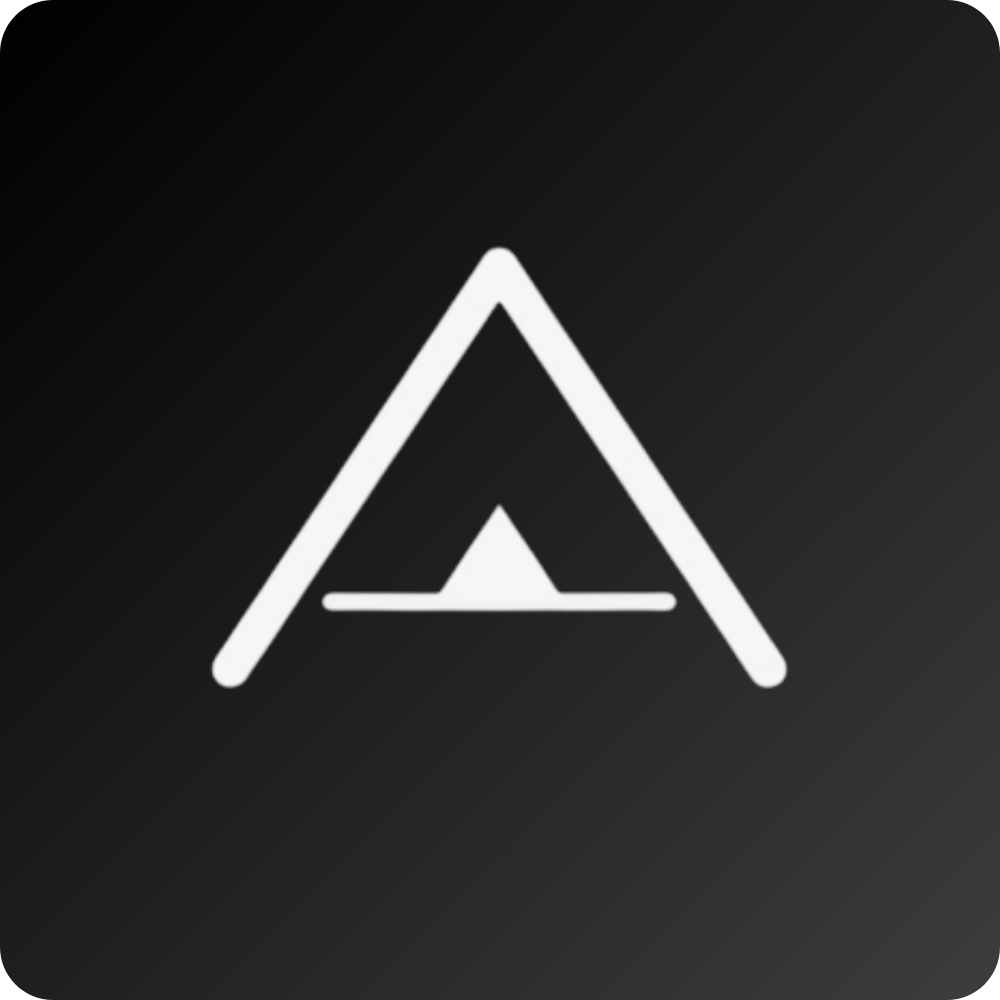
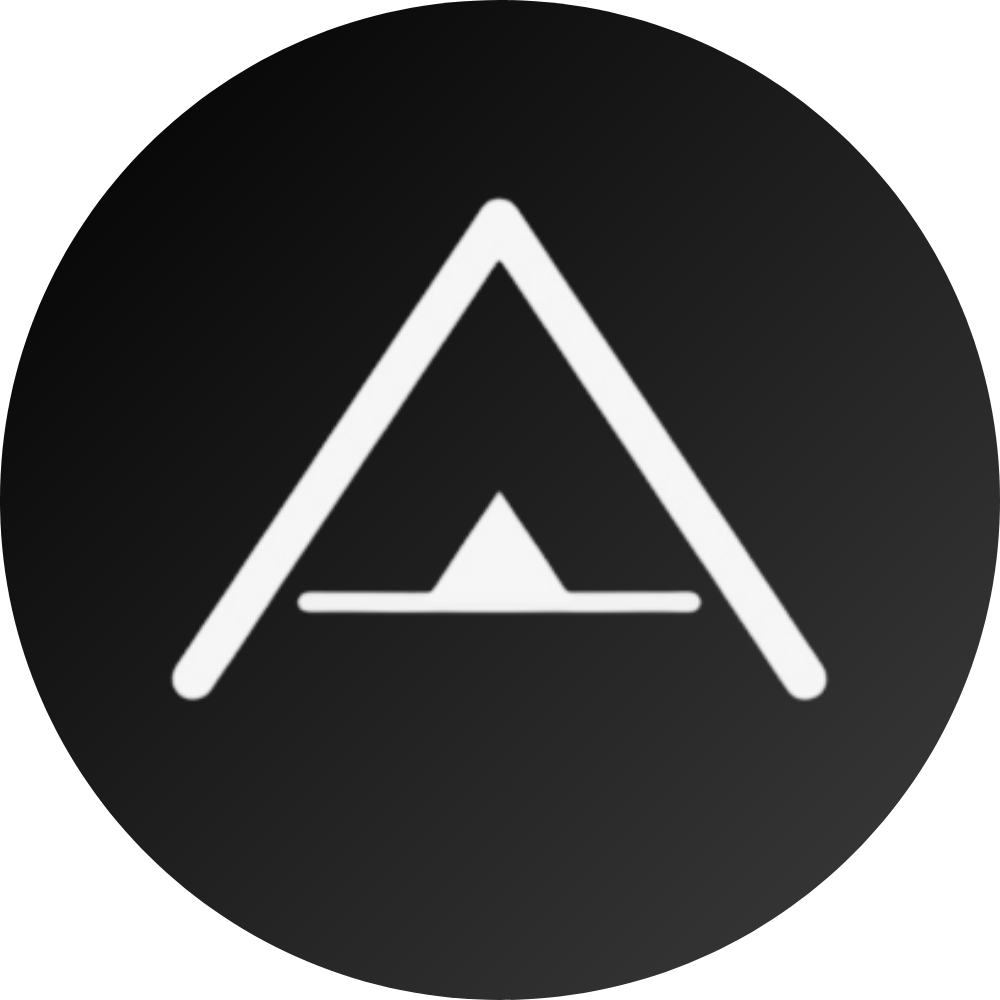
Rollback hct_api e atualização do icone

diff --git a/homecore-tools/rootfs/usr/bin/hct_api.py b/homecore-tools/rootfs/usr/bin/hct_api.py
@@ -31,117 +31,6 @@ state = {
 }
 
 
-# HTML das Ferramentas IR
-SENDHEX_HTML = """<!DOCTYPE html>
-<html lang="pt-BR">
-<head>
-  <meta charset="UTF-8" />
-  <title>GW3 • Envio IR (Pronto HEX)</title>
-  <meta name="viewport" content="width=device-width, initial-scale=1.0" />
-  <style>
-    body { font-family: system-ui, -apple-system, Segoe UI, Roboto, Arial, sans-serif; background:#f6f7fb; margin:0; padding:24px; }
-    .wrap { max-width: 960px; margin: 0 auto; background:#fff; border-radius:12px; padding:24px; box-shadow: 0 8px 20px rgba(0,0,0,.06); }
-    .back-link { display: inline-block; margin-bottom: 20px; color: #667eea; text-decoration: none; font-weight: 600; }
-    .back-link:hover { text-decoration: underline; }
-    h1 { font-size: 22px; margin: 0 0 18px; color:#0f172a; }
-    .grid { display:grid; grid-template-columns: repeat(3, 1fr); gap:14px; }
-    .full { grid-column: 1 / -1; }
-    label { font-size: 13px; color:#334155; margin-bottom:6px; display:block; }
-    input[type="text"], textarea { width:100%; box-sizing:border-box; border:1px solid #cbd5e1; border-radius:8px; padding:10px 12px; font-size:14px; outline:none; transition: box-shadow .2s, border-color .2s; }
-    input:focus, textarea:focus { border-color:#667eea; box-shadow: 0 0 0 3px rgba(102,126,234,.15); }
-    textarea { min-height: 160px; resize: vertical; font-family: ui-monospace, SFMono-Regular, Menlo, Consolas, monospace; }
-    .row { display:flex; gap:10px; align-items:center; }
-    .btn { background:#667eea; color:#fff; border:0; border-radius:10px; padding:12px 18px; font-weight:600; cursor:pointer; font-size:14px; }
-    .btn.secondary { background:#475569; }
-    .btn.warn { background:#dc2626; }
-    .btn:disabled { opacity:.6; cursor:not-allowed; }
-    .status { margin-top:14px; padding:12px; border-radius:8px; display:none; white-space:pre-wrap; }
-    .ok { background:#dcfce7; color:#166534; display:block; }
-    .err { background:#fee2e2; color:#991b1b; display:block; }
-    .hint { color:#475569; font-size:12px; margin-top:6px; }
-    .checkbox { display:flex; align-items:center; gap:8px; }
-  </style>
-</head>
-<body>
-  <div class="wrap">
-    <a href="/" class="back-link">← Voltar ao Dashboard</a>
-    <h1>GW3 • Envio de Códigos IR (POST • x-www-form-urlencoded)</h1>
-    <div class="grid">
-      <div><label for="ip">IP do GW3</label><input id="ip" type="text" placeholder="192.168.1.112" autocomplete="off"></div>
-      <div><label for="serial">Serial (serialNum)</label><input id="serial" type="text" placeholder="P130-C101-A0794" autocomplete="off"></div>
-      <div><label for="pwd">Senha (verifyCode)</label><input id="pwd" type="text" placeholder="72856898" autocomplete="off"></div>
-      <div><label for="c">Parâmetro c</label><input id="c" type="text" placeholder="1" autocomplete="off"></div>
-      <div><label for="r">Parâmetro r</label><input id="r" type="text" placeholder="2" autocomplete="off"></div>
-      <div class="checkbox"><input id="upper" type="checkbox"><label for="upper">HEX em maiúsculas</label></div>
-      <div class="full"><label for="pronto">Código Pronto HEX (com espaços)</label><textarea id="pronto" placeholder="Ex.: 0000 006D 0022 0002 0157 00AC 0015 0016 0015 0041 ..."></textarea><div class="hint">Cole exatamente com espaços; o formulário codifica automaticamente. Todos os campos são salvos no seu navegador (localStorage).</div></div>
-      <div class="full row"><button class="btn" id="send">📡 Enviar (POST)</button><button class="btn secondary" id="preview">🧪 Pré-visualizar corpo</button><button class="btn warn" id="clear">🧹 Limpar dados salvos</button></div>
-    </div>
-    <div id="status" class="status"></div>
-  </div>
-  <script>
-    const F={ip:document.getElementById('ip'),serial:document.getElementById('serial'),pwd:document.getElementById('pwd'),c:document.getElementById('c'),r:document.getElementById('r'),upper:document.getElementById('upper'),pronto:document.getElementById('pronto'),status:document.getElementById('status'),send:document.getElementById('send'),preview:document.getElementById('preview'),clear:document.getElementById('clear')};
-    const KEYS={ip:'gw3_ip',serial:'gw3_serial',pwd:'gw3_pwd',c:'gw3_c',r:'gw3_r',pronto:'gw3_pronto',upper:'gw3_upper'};
-    function load(){F.ip.value=localStorage.getItem(KEYS.ip)||'192.168.1.112';F.serial.value=localStorage.getItem(KEYS.serial)||'P130-C101-A0794';F.pwd.value=localStorage.getItem(KEYS.pwd)||'72856898';F.c.value=localStorage.getItem(KEYS.c)||'1';F.r.value=localStorage.getItem(KEYS.r)||'2';F.pronto.value=localStorage.getItem(KEYS.pronto)||'';F.upper.checked=(localStorage.getItem(KEYS.upper)||'0')==='1';}
-    function bindAutosave(){const saveText=(el,key)=>el.addEventListener('input',()=>localStorage.setItem(key,el.value));const saveCheck=(el,key)=>el.addEventListener('change',()=>localStorage.setItem(key,el.checked?'1':'0'));saveText(F.ip,KEYS.ip);saveText(F.serial,KEYS.serial);saveText(F.pwd,KEYS.pwd);saveText(F.c,KEYS.c);saveText(F.r,KEYS.r);saveText(F.pronto,KEYS.pronto);saveCheck(F.upper,KEYS.upper);}
-    function normalizeHex(s){let v=s.replace(/\\s+/g,' ').trim();if(F.upper.checked)v=v.toUpperCase();return v;}
-    function build(){const ip=F.ip.value.trim();const serial=F.serial.value.trim();const pwd=F.pwd.value.trim();const c=F.c.value.trim();const r=F.r.value.trim();let pronto=normalizeHex(F.pronto.value);if(!ip||!serial||!pwd||!c||!r||!pronto){throw new Error('Preencha IP, serial, senha, c, r e o código Pronto HEX.');}const url=`http://${ip}/api/device/deviceDetails/smartHomeAutoHttpControl`;const body=new URLSearchParams();body.append('serialNum',serial);body.append('verifyCode',pwd);body.append('pronto',pronto);body.append('c',c);body.append('r',r);return{url,body};}
-    function showOK(msg){F.status.className='status ok';F.status.textContent=msg;}function showERR(msg){F.status.className='status err';F.status.textContent=msg;}
-    async function send(){try{const{url,body}=build();await fetch(url,{method:'POST',headers:{'Content-Type':'application/x-www-form-urlencoded'},body,mode:'no-cors'});showOK('✅ Enviado! (POST x-www-form-urlencoded com pronto=...)');}catch(e){showERR('❌ '+e.message);}}
-    function preview(){try{const{url,body}=build();showOK(`URL:\\n${url}\\n\\nBody:\\n${body.toString()}`);}catch(e){showERR('❌ '+e.message);}}
-    function clearAll(){Object.values(KEYS).forEach(k=>localStorage.removeItem(k));load();showOK('🧹 Dados salvos apagados.');}
-    document.addEventListener('DOMContentLoaded',()=>{load();bindAutosave();F.send.addEventListener('click',send);F.preview.addEventListener('click',preview);F.clear.addEventListener('click',clearAll);});
-  </script>
-</body>
-</html>
-"""
-
-SENDIR_HTML = """<!DOCTYPE html>
-<html lang="pt-BR">
-<head>
-    <meta charset="UTF-8"><title>Ferramenta de Envio de Comandos IR - SendIR / GC</title>
-    <meta name="viewport" content="width=device-width, initial-scale=1.0">
-    <style>
-        body{font-family:'Roboto',sans-serif;background-color:#f6f7fb;color:#333;margin:0;padding:24px;display:flex;justify-content:center;align-items:center;min-height:100vh;}
-        .container{width:100%;max-width:900px;background:#fff;padding:2em;border-radius:12px;box-shadow:0 8px 20px rgba(0,0,0,.06);}
-        .back-link{display:inline-block;margin-bottom:20px;color:#667eea;text-decoration:none;font-weight:600;}.back-link:hover{text-decoration:underline;}
-        h1{font-size:1.8em;color:#1e3a8a;margin-top:0;margin-bottom:1em;text-align:center;}
-        .form-grid{display:grid;grid-template-columns:1fr 1fr 1fr;gap:1.5em;}
-        .form-group{display:flex;flex-direction:column;}.full-width{grid-column:1/-1;}
-        label{font-weight:500;margin-bottom:0.5em;color:#374151;}
-        input,textarea{padding:10px;border:1px solid #cbd5e1;border-radius:8px;font-family:'Roboto',sans-serif;font-size:1em;transition:border-color 0.3s,box-shadow 0.3s;}
-        input:focus,textarea:focus{border-color:#667eea;box-shadow:0 0 0 3px rgba(102,126,234,0.2);outline:none;}
-        textarea{height:120px;resize:vertical;font-family:'Courier New',Courier,monospace;}
-        .button-container{grid-column:1/-1;display:flex;justify-content:center;margin-top:1em;}
-        button{background-color:#667eea;color:white;padding:12px 25px;border:none;border-radius:10px;cursor:pointer;font-size:1.1em;font-weight:600;transition:background-color 0.3s;}button:hover{background-color:#5568d3;}
-        #status-message{margin-top:1.5em;padding:1em;border-radius:8px;text-align:center;font-weight:500;display:none;}
-        .status-success{background-color:#dcfce7;color:#166534;display:block;}.status-error{background-color:#fee2e2;color:#991b1b;display:block;}
-    </style>
-</head>
-<body>
-    <div class="container">
-        <a href="/" class="back-link">← Voltar ao Dashboard</a>
-        <h1>Ferramenta de Envio de Comandos IR (SendIR / GC)</h1>
-        <div class="form-grid">
-            <div class="form-group"><label for="ip">IP do Dispositivo:</label><input type="text" id="ip"></div>
-            <div class="form-group"><label for="serial">Serial Number:</label><input type="text" id="serial"></div>
-            <div class="form-group"><label for="pwd">Password (verifyCode):</label><input type="text" id="pwd"></div>
-            <div class="form-group full-width"><label for="c-value">Parâmetro 'c':</label><input type="text" id="c-value"></div>
-            <div class="form-group full-width"><label for="gc-code">Código SendIR / GC:</label><textarea id="gc-code" placeholder="Cole o código SendIR aqui (ex: 38000,1,1,...)"></textarea></div>
-            <div class="button-container"><button id="send-button">📡 Enviar Comando</button></div>
-        </div>
-        <div id="status-message"></div>
-    </div>
-    <script>
-        const ipEl=document.getElementById('ip');const serialEl=document.getElementById('serial');const pwdEl=document.getElementById('pwd');const cEl=document.getElementById('c-value');const gcCodeEl=document.getElementById('gc-code');const sendButton=document.getElementById('send-button');const statusMessageEl=document.getElementById('status-message');
-        function loadData(){ipEl.value=localStorage.getItem('sendir_ip')||'192.168.1.112';serialEl.value=localStorage.getItem('sendir_serial')||'P130-C101-A0794';pwdEl.value=localStorage.getItem('sendir_pwd')||'72856898';cEl.value=localStorage.getItem('sendir_c')||'1';gcCodeEl.value=localStorage.getItem('sendir_gc_code')||'';}
-        function saveData(){localStorage.setItem('sendir_ip',ipEl.value);localStorage.setItem('sendir_serial',serialEl.value);localStorage.setItem('sendir_pwd',pwdEl.value);localStorage.setItem('sendir_c',cEl.value);localStorage.setItem('sendir_gc_code',gcCodeEl.value);}
-        async function sendRequest(){saveData();const ip=ipEl.value.trim();const serial=serialEl.value.trim();const pwd=pwdEl.value.trim();const c=cEl.value.trim();const gcCode=gcCodeEl.value.trim().replace(/\\s/g,'');if(!ip||!serial||!pwd||!c||!gcCode){statusMessageEl.textContent='❌ Erro: Todos os campos devem ser preenchidos.';statusMessageEl.className='status-error';return;}const url=`http://${ip}/api/device/deviceDetails/smartHomeAutoHttpControl`;const body=new URLSearchParams();body.append('serialNum',serial);body.append('verifyCode',pwd);body.append('c',c);body.append('gc',gcCode);statusMessageEl.style.display='none';statusMessageEl.className='';try{await fetch(url,{method:'POST',headers:{'Content-Type':'application/x-www-form-urlencoded',},body:body,mode:'no-cors'});statusMessageEl.textContent='✅ Comando enviado com sucesso para o dispositivo!';statusMessageEl.className='status-success';}catch(error){statusMessageEl.textContent=`❌ Erro ao enviar o comando. Verifique o IP e a conexão de rede. Detalhe: ${error.message}`;statusMessageEl.className='status-error';}}
-        sendButton.addEventListener('click',sendRequest);document.addEventListener('DOMContentLoaded',loadData);
-    </script>
-</body>
-</html>
-"""
-
 # HTML do Dashboard
 DASHBOARD_HTML = """
 <!DOCTYPE html>
@@ -382,14 +271,6 @@ DASHBOARD_HTML = """
         </div>
         
         <div class="card">
-            <h2>🔧 Ferramentas IR</h2>
-            <div class="btn-group">
-                <a href="/tools/sendhex" class="btn">📡 Enviar IR (Pronto HEX)</a>
-                <a href="/tools/sendir" class="btn">📻 Enviar IR (SendIR/GC)</a>
-            </div>
-        </div>
-        
-        <div class="card">
             <h2>📝 Logs Recentes</h2>
             <div id="logs-container">
                 <div class="loading">
@@ -563,18 +444,6 @@ def dashboard():
     return render_template_string(DASHBOARD_HTML)
 
 
-@app.route('/tools/sendhex')
-def tool_sendhex():
-    """Ferramenta de envio IR (Pronto HEX)."""
-    return render_template_string(SENDHEX_HTML)
-
-
-@app.route('/tools/sendir')
-def tool_sendir():
-    """Ferramenta de envio IR (SendIR/GC)."""
-    return render_template_string(SENDIR_HTML)
-
-
 @app.route('/api/status')
 def api_status():
     """Retorna status atual do sistema."""
@@ -671,17 +540,25 @@ def init_api(token: str, updater: HCTUpdater):
     state["updater"] = updater
     logger.info("hct-api", "init", "API inicializada")
 
-
 def run_api(host: str = '0.0.0.0', port: int = 8099):
-    """Executa servidor Flask."""
-    # Desabilitar logs do Werkzeug (servidor Flask) para não contaminar JSON
-    log = logging.getLogger('werkzeug')
-    log.setLevel(logging.ERROR)
-    log.disabled = True
-    
+    """Executa servidor Flask com wsgiref (silencioso)."""
     logger.info("hct-api", "startup", f"Iniciando servidor web em {host}:{port}")
-    app.run(host=host, port=port, debug=False, use_reloader=False)
-
+    
+    # Usar wsgiref ao invés do servidor Flask padrão
+    # wsgiref não imprime logs de inicialização
+    from wsgiref.simple_server import make_server
+    import os
+    
+    # Redirecionar stderr para evitar qualquer log
+    sys.stderr = open(os.devnull, 'w')
+    
+    # Desabilitar loggers do Flask
+    logging.getLogger('werkzeug').disabled = True
+    app.logger.disabled = True
+    
+    # Criar e iniciar servidor wsgiref (100% silencioso)
+    server = make_server(host, port, app)
+    server.serve_forever()
 
 if __name__ == "__main__":
     # Teste standalone
